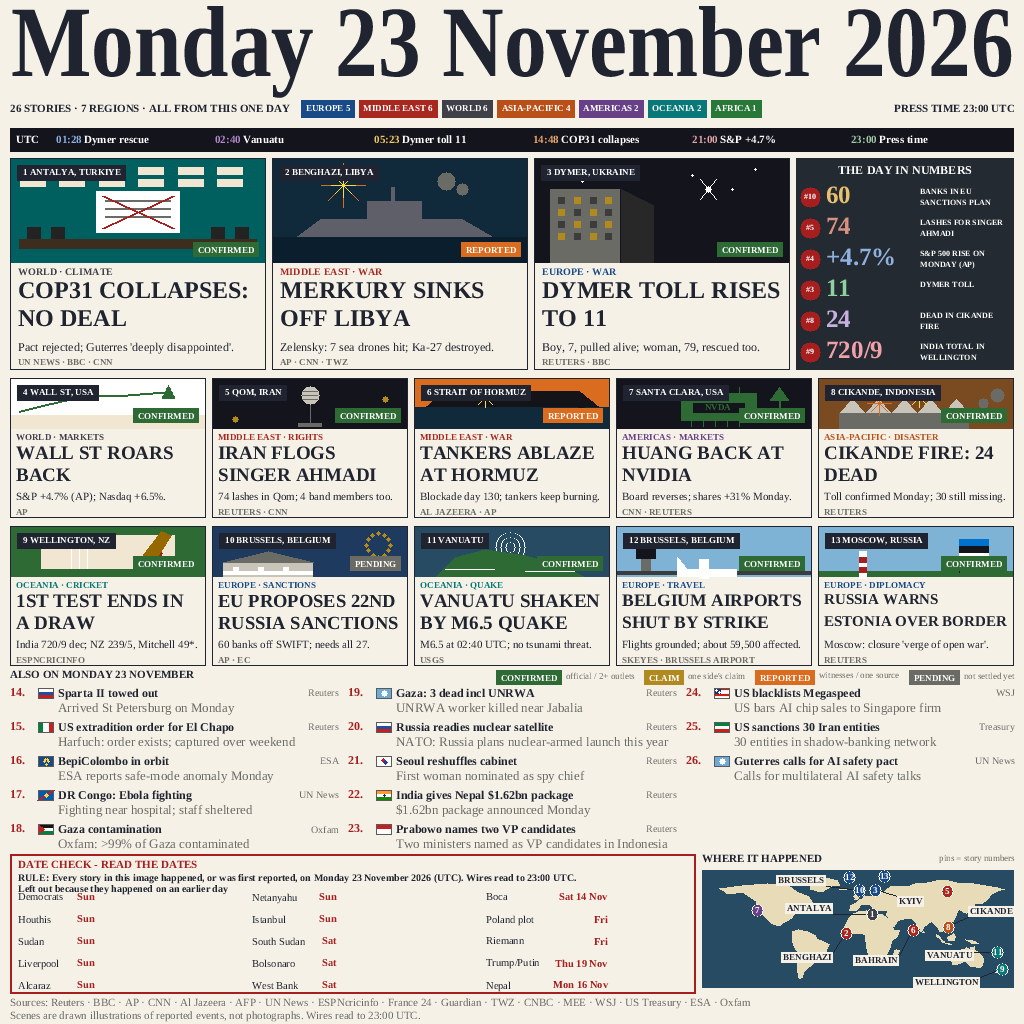
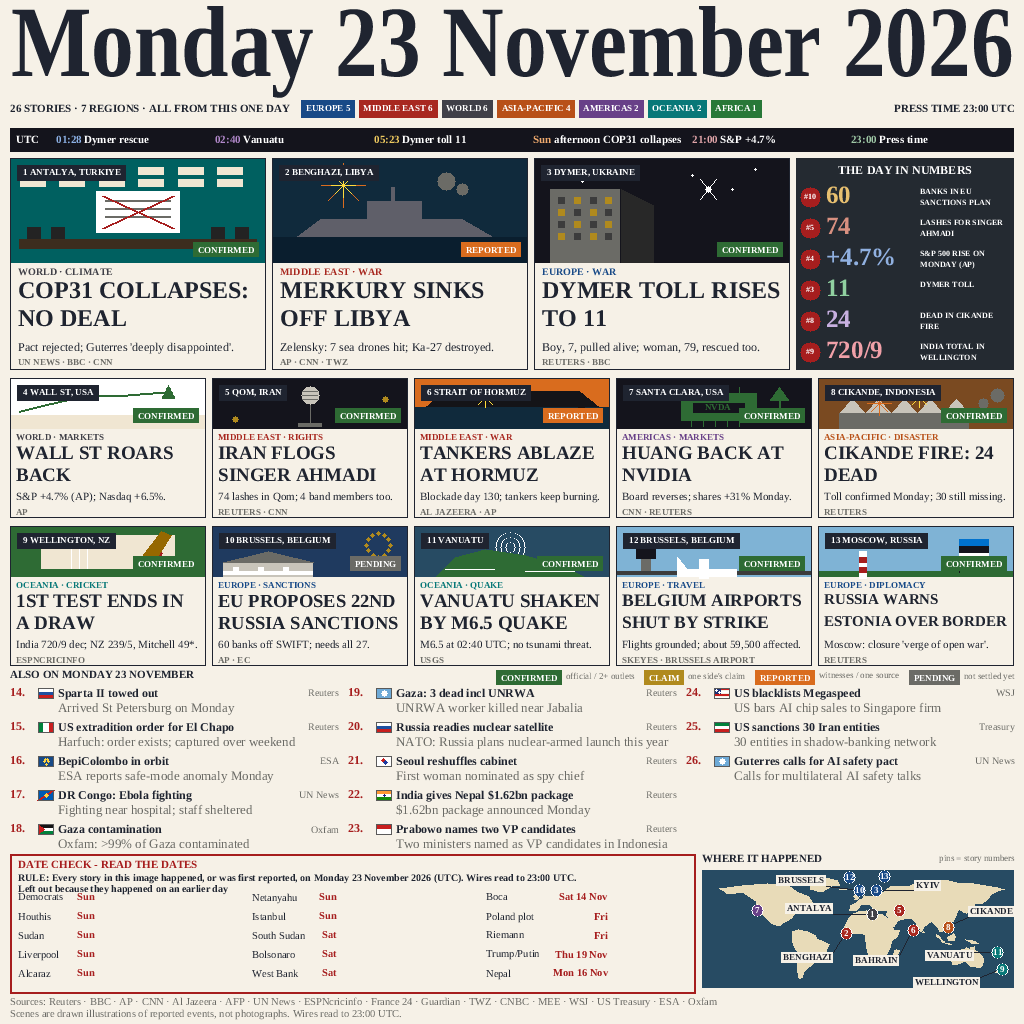
v16: Ban's clean-up — DATE CHECK pitch 22->19, footer 10.5px at 997/1009, timeline COP31 'Sun afternoon', pin 5 home to Iran, story-count comments clarified

Changed region(s): [[0.0, 0.875, 0.7188, 1.0], [0.5312, 0.125, 0.6562, 0.1562], [0.875, 0.8438, 0.9375, 0.9062]]

diff --git a/main.py b/main.py
@@ -19,7 +19,7 @@
 # with region-count chips, inline-label timeline bar, 3 leads + dark
 # "THE DAY IN NUMBERS" side panel, 2x5 small cards with location chips,
 # 3-column also-list with badge legend, DATE CHECK + map side by side.
-# Monday 23 Nov content is exactly v4.1's (35 stories, stat 60, DATE CHECK
+# Monday 23 Nov content is exactly v4.1's (35 stories at v5, stat 60, DATE CHECK
 # wording, press time 23:00 UTC); only the layout follows #2. Measured #2
 # numbers (PIL + TOP5-v4.5-MEASUREMENT.md): masthead cap 66px / em ~94px /
 # width ~1000px; kicker y 103-125; timeline ~22px, 6 events; lead cards
@@ -35,8 +35,8 @@
 # stories moved to the also-list with (Sun) tags; DATE CHECK now names
 # all 15 Earlier items; stat 258 -> 74 Ahmadi; timeline times yellow;
 # map pins inset + de-clustered; also-list 10px; "#" in the stat discs.
-# Same 35 stories, same region counts, same layout as v6.2.
-# v8 (24 Nov, Ban order — top-3 structure, 28 stories, Left-out box):
+# Same 35 stories [v7's count], same region counts, same layout as v6.2.
+# v8 (24 Nov, Ban order — top-3 structure, 28 stories at v8, Left-out box):
 # main list holds ONLY Monday stories (first-reported or developing Mon
 # 23 Nov UTC): 13 pictured unchanged + 15 also-list (7 kept + 8 new
 # Monday stories from V8-NEW-STORIES.md). The 15 non-Monday stories
@@ -72,6 +72,13 @@
 # 10.5px at +15 (was +14); footer Sources 9 -> 9.5px. No rasterizer
 # change: glyphs already render at 4x supersampling + alpha blend, so
 # the legibility gain is leading + size, as briefed.
+# v16 (Ban: clean up, no new rules): story counts in the version notes
+# above are HISTORICAL (v4/v5/v7: 35, v8: 28) — the current image holds
+# 26 stories (1..26), as shown in TOPLINE, the kicker, LEADS/SMALL and
+# ALSO. The v16 fixes: DATE CHECK left-out pitch 22 -> 19px (row-5
+# margin above the box border), footer 11 -> 10.5px at y 997/1009,
+# timeline COP31 "14:48" -> "Sun afternoon" (14:48 is a Sunday filing
+# time), pin 5 (Qom) back to its geographic spot (see MAP_PINS).
 
 import os
 import struct
@@ -135,8 +142,9 @@ TIME_LAV = (178, 137, 203)
 TIME_GOLD = (238, 201, 95)
 TIME_PINK = (223, 164, 168)
 TIME_GREEN = (159, 200, 166)
-# v10: COP31's 14:48 is the IPS first-filing time (see V10-SOURCES.md
-# §1b) — a distinct pastel orange so it reads as its own event.
+# v16: COP31's entry is labelled "Sun afternoon" (v10's 14:48 was the
+# IPS first-filing time, Sun 14:48:44 UTC — see V10-SOURCES.md §1b);
+# a distinct pastel orange so it reads as its own event.
 TIME_ORANGE = (240, 170, 110)
 
 REGION_COLORS = [
@@ -995,11 +1003,19 @@ LAND_POLYS = [NA, GREENLAND, SA, AFRICA, EURASIA, UK, JAPAN, AUSTRALIA, NZ,
 # dy2 -15 -> -20 (disc top exactly at the map's top edge, same as pin
 # 12 since v12). No Seoul pin (story 4 is Wall St). All pin numbers
 # still match their story numbers.
+# v16 (Ban: clean up, no new rules): pin 5 (Qom) comes home — v15 had
+# pushed it to dx 48, dy2 -21 (drawn at 245,21, northern Eurasia).
+# The frozen re-polish (/tmp/v16_pin5.py: pin 5 held, all other pins
+# re-solved) frees its geographic spot by moving the KYIV label up and
+# east (dy 11 -> -5, gap 15 -> 31; pin dx -8 -> -7): pin 5 is now
+# dx 0, dy2 -2 (drawn at 197,40, essentially its true lon/lat
+# 50.9E/34.6N). Worst clearance stays 16.0px, min pin-pin centre
+# 16.1px — no regression (probe /tmp/v16_pin5.py, same metric).
 MAP_PINS = [
     (1, 31.0, 37.5, "ANTALYA", -1, -6, -11, 4, 32),
     (2, 18.0, 33.0, "BENGHAZI", -1, 24, -26, 20, 6),
-    (3, 30.5, 50.5, "KYIV", 1, 11, -8, -10, 15),
-    (5, 50.9, 34.6, None, 1, 0, 48, -21),
+    (3, 30.5, 50.5, "KYIV", 1, -5, -7, -10, 31),
+    (5, 50.9, 34.6, None, 1, 0, 0, -2),
     (6, 52.5, 27.5, "BAHRAIN", -1, 30, 12, 13, 7),
     (7, -122.0, 37.4, None, 1, 0, 0, 0),
     (8, 106.5, -7.0, "CIKANDE", 1, -16, 3, -16, 13),
@@ -1359,7 +1375,7 @@ def scene(cv, x, y, w, h, kind):
 
 
 # ---------------------------------------------------------------- content
-# v4: same 35 stories, same figures, same sources as v3.1 (STORY-LIST.md).
+# v4: same 35 stories [v4's count], same figures, same sources as v3.1 (STORY-LIST.md).
 # Only the CASING changed to match the 22 Nov reference typography:
 # masthead/subhead/decks/also-list/DATE CHECK in sentence case, heads and
 # labels in caps. Wording is otherwise identical.
@@ -1372,21 +1388,29 @@ TOPLINE = "THE WORLD IN ONE DAY \u00b7 26 STORIES \u00b7 7 REGIONS \u00b7 PRESS 
 # colour). v10: "Morning" is now the definite "05:23" (Dymer toll 11:
 # Tkachenko Telegram 07:23 Kyiv local = 05:23 UTC, corroborated by the
 # Reuters wire timestamped 06:24 UTC already carrying "kills 11"); the
-# same chronology confirms the 01:28 UTC rescue. COP31 gets "14:48" —
-# the IPS first-filing time (14:48:44 UTC Sun); HONEST CAVEAT: no exact
-# plenary hour was established (Guardian "Sunday afternoon", AP "ended
-# Sunday night"), so 14:48 is the first-report time, NOT the plenary
-# time — do not present it as the plenary hour.
+# same chronology confirms the 01:28 UTC rescue. COP31 got "14:48" at
+# v10 — the IPS first-filing time (14:48:44 UTC Sun); HONEST CAVEAT:
+# no exact plenary hour was established (Guardian "Sunday afternoon",
+# AP "ended Sunday night"), so 14:48 is the first-report time, NOT the
+# plenary time — do not present it as the plenary hour.
+# v16 (Ban: clean up, no new rules): 14:48 IS a Sunday time, so the
+# bar no longer prints it as a Monday hour — the COP31 entry is now
+# labelled "Sun afternoon" (the sourced window, V10-SOURCES.md §1b).
+# The 888 minutes value is retained as the IPS filing minute for
+# reference (the bar draws even slots in list order and does not use
+# it for positioning). The five Monday entries stay in chronological
+# UTC order; the COP31 entry is the Sunday-afternoon collapse shown
+# as context in its established 4th slot.
 # v9: black bar, bright per-event time colours sampled from #2's UTC bar
 # (light blue, lavender, gold, pink, green pastels on black).
 # v11: the list is CHRONOLOGICAL by UTC hour (Ban order) — the bar
 # draws one even slot per entry in list order, so list order IS the
-# left-to-right order: 01:28, 02:40, 05:23, 14:48, 21:00, 23:00.
+# left-to-right order: 01:28, 02:40, 05:23, Sun afternoon, 21:00, 23:00.
 TIMELINE = [
     (88, "01:28 Dymer rescue", False, TIME_BLUE),
     (160, "02:40 Vanuatu", True, TIME_LAV),
     (323, "05:23 Dymer toll 11", False, TIME_GOLD),
-    (888, "14:48 COP31 collapses", True, TIME_ORANGE),
+    (888, "Sun afternoon COP31 collapses", True, TIME_ORANGE),
     (1260, "21:00 S&P +4.7%", True, TIME_PINK),
     (1380, "23:00 Press time", False, TIME_GREEN),
 ]
@@ -1554,9 +1578,10 @@ REGION_OF = {
 #     66px cap, full-bleed like #2's 1000px; ink to ~93)
 #   KICKER 100-122 (11px text + region-count chips + PRESS TIME right)
 #   TIMELINE 128-152 (24px BLACK bar, bright per-event time colours
-#     sampled from #2's UTC bar + white labels; v10: 11px type, all six
-#     events have definite UTC hours — 14:48 is the IPS first-filing
-#     time, not the plenary hour; v11: entries in CHRONOLOGICAL order)
+#     sampled from #2's UTC bar + white labels; v10: 11px type, five
+#     events have definite Monday UTC hours, COP31 is labelled "Sun
+#     afternoon" (v16: 14:48 is a Sunday filing time, see TIMELINE);
+#     v11: entries in CHRONOLOGICAL order)
 #   LEAD CARDS 158-370 (212; scene 104; cat 10px region colour; head
 #     24px 2 lines; deck 12px 1 line; src 9px) | STAT PANEL 158-370
 #     (218 wide, dark, header 12px, 6 rows x 31px: 25px number in its
@@ -1609,8 +1634,8 @@ def build():
     # timeline bar: BLACK, 24px (v10: grown from 22px for the bigger
     # 11px type; the 2px come from the lead-card gap, still 6px), bright
     # per-event time colour + white label (v9: #2's system — soft pastel
-    # times on black; v10: every event now has a definite UTC hour —
-    # 14:48 is the IPS first-filing time, see TIMELINE comment).
+    # times on black; v10: every event now has a definite UTC hour;
+    # v16: COP31 is labelled "Sun afternoon", see TIMELINE comment).
     bar_y = 128
     cv.fill_rect(mx, bar_y, cw, 24, DARK)
     draw_text(cv, mx + 6, bar_y + 7, "UTC", 11, WHITE, bold=True)
@@ -1780,6 +1805,11 @@ def build():
     # leading 11 -> 10, post-rule gap 1, "Left out" header gap 12 ->
     # 9 — rows now run 893..981, glyph bottom ~991.5, box bottom 994.
     # Item text 10 -> 10.5px for legibility (fix 3).
+    # v16 (Ban: clean up, no new rules): left-out rows pitch 22 ->
+    # 19px so row 5 gets a clear margin above the bottom border —
+    # rows now run 893..969, glyph bottom ~979.5, box bottom 994
+    # (14.5px margin). Day-tag column alignment from v15 is untouched
+    # (no ragged tags); name-to-day gaps unchanged.
     dy = 854
     cv.rect(mx, dy, 686, 140, RED, 2)
     draw_text(cv, mx + 8, dy + 6, "DATE CHECK - READ THE DATES", 11, RED,
@@ -1801,7 +1831,7 @@ def build():
         col = i // 5
         row = i % 5
         lx2 = mx + 8 + col * 234
-        ly2 = ly + row * 22
+        ly2 = ly + row * 19
         draw_text(cv, lx2, ly2, name, 10.5, INK)
         draw_text(cv, lx2 + col_edge[col]
                   - int(text_width(day, 10.5, bold=True)),
@@ -1819,9 +1849,12 @@ def build():
     # lines 994/1007 -> 996/1009 (DATE CHECK box grew to 992); second
     # line bottom ~1019.5, image is 1024 tall. v15: 10.5 -> 11px,
     # lines 996/1009 -> 998/1011 (DATE CHECK box top moved to 854);
-    # second line bottom ~1022, image is 1024 tall)
-    draw_text(cv, mx, 998, "Sources: Reuters \u00b7 BBC \u00b7 AP \u00b7 CNN \u00b7 Al Jazeera \u00b7 AFP \u00b7 UN News \u00b7 ESPNcricinfo \u00b7 France 24 \u00b7 Guardian \u00b7 TWZ \u00b7 CNBC \u00b7 MEE \u00b7 WSJ \u00b7 US Treasury \u00b7 ESA \u00b7 Oxfam", 11, GREY)
-    draw_text(cv, mx, 1011, "Scenes are drawn illustrations of reported events, not photographs. Wires read to 23:00 UTC.", 11, GREY)
+    # second line bottom ~1022, image is 1024 tall. v16 (Ban: clean
+    # up): 11 -> 10.5px, lines 998/1011 -> 997/1009; second line
+    # bottom ~1019.5, image is 1024 tall (4.5px bottom margin, zero
+    # clipping — verified by measuring the rendered PNG).
+    draw_text(cv, mx, 997, "Sources: Reuters \u00b7 BBC \u00b7 AP \u00b7 CNN \u00b7 Al Jazeera \u00b7 AFP \u00b7 UN News \u00b7 ESPNcricinfo \u00b7 France 24 \u00b7 Guardian \u00b7 TWZ \u00b7 CNBC \u00b7 MEE \u00b7 WSJ \u00b7 US Treasury \u00b7 ESA \u00b7 Oxfam", 10.5, GREY)
+    draw_text(cv, mx, 1009, "Scenes are drawn illustrations of reported events, not photographs. Wires read to 23:00 UTC.", 10.5, GREY)
     return cv
 
 
